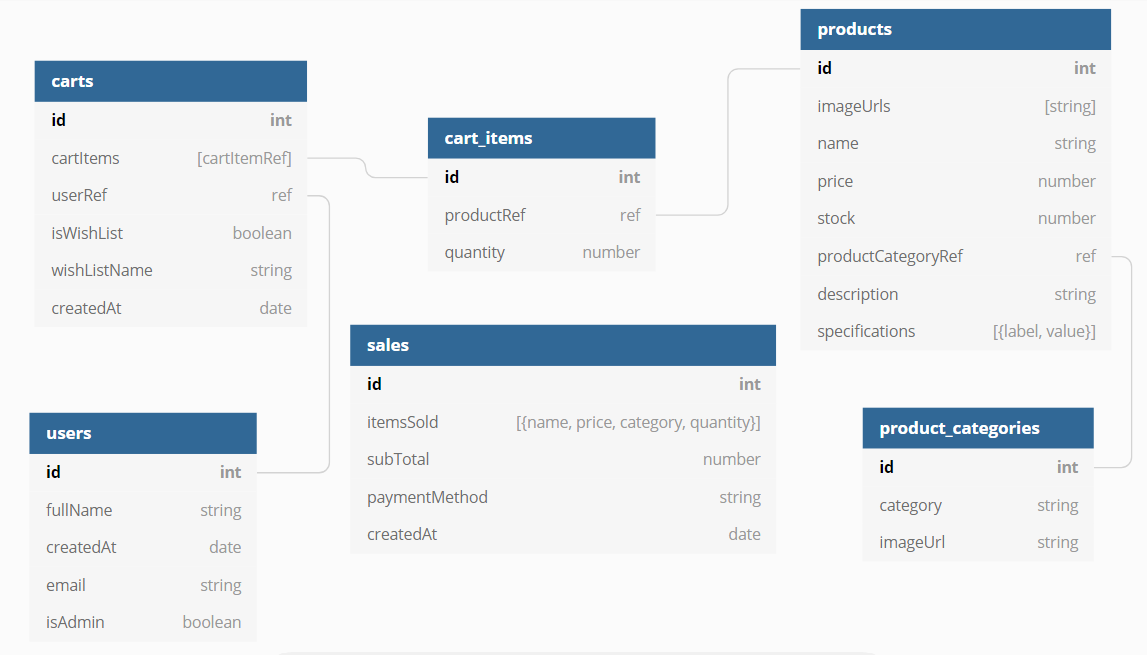
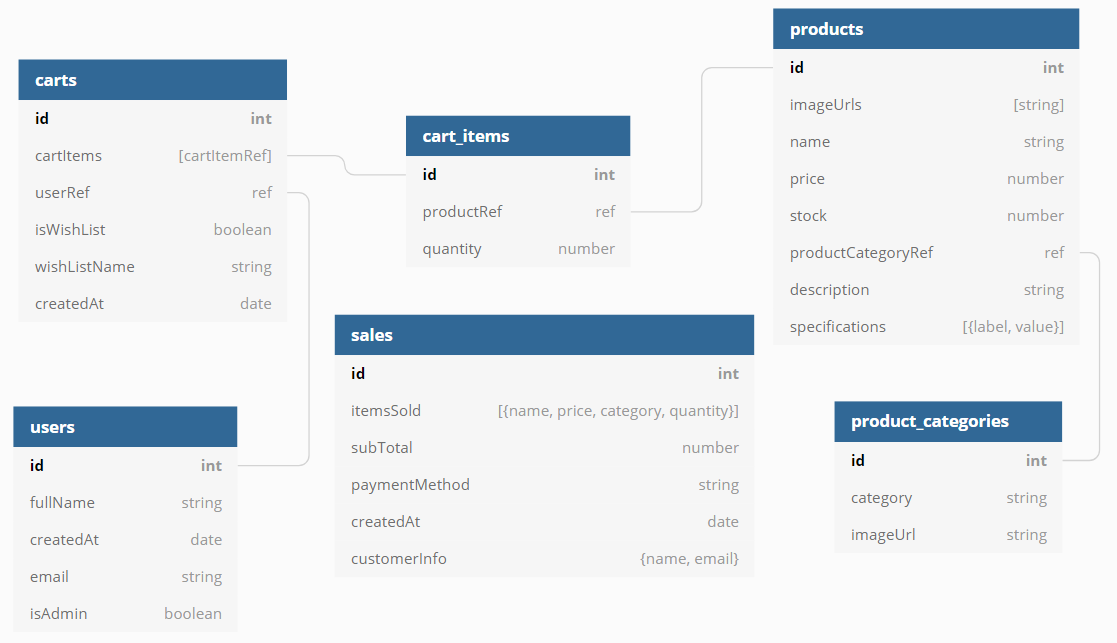
Adds customer name and customer email when creating new sale document in db.

diff --git a/client/src/redux/checkout/checkout.sagas.js b/client/src/redux/checkout/checkout.sagas.js
@@ -57,6 +57,7 @@ function* checkoutCart({
 }) {
   try {
     const shoppingCart = yield select(selectShoppingCart);
+    const { customerInfo } = checkoutInfo;
     yield checkCartItemsInStockOrOutdated(shoppingCart);
     const paymentMethod = yield call(
       processPayment,
@@ -70,8 +71,9 @@ function* checkoutCart({
       checkoutSuccess(
         onSuccessfulCheckout,
         "Payment Successful",
-        `${checkoutInfo.customerInfo.name.toUpperCase()} your payment was successful. Have a good day`,
-        paymentMethod
+        `${customerInfo.name.toUpperCase()} your payment was successful. Have a good day`,
+        paymentMethod,
+        customerInfo
       )
     );
   } catch (err) {
@@ -84,7 +86,8 @@ function* handleCheckoutSuccess({
     onSuccessfulCheckout,
     notificationTitle,
     notificationMsg,
-    paymentMethod
+    paymentMethod,
+    customerInfo
   }
 }) {
   try {
@@ -99,6 +102,7 @@ function* handleCheckoutSuccess({
       shoppingCart,
       paymentMethod,
       shoppingCartSubtotal,
+      customerInfo,
       !!currentUser,
       cartId
     );

diff --git a/client/src/firebase-utils/firebase.checkout_utils.js b/client/src/firebase-utils/firebase.checkout_utils.js
@@ -10,6 +10,7 @@ export const createNewSale = async (
   shoppingCart,
   paymentMethod,
   subTotal,
+  customerInfo,
   isUserLoggedIn,
   cartId
 ) => {
@@ -18,11 +19,13 @@ export const createNewSale = async (
     await clearUserCart(cartId);
   }
   const itemsSold = createNewCartWithImportantItemInfo(shoppingCart);
+  const { name, email } = customerInfo;
   const newSaleRef = await saleCollectionRef.add({
     itemsSold,
     subTotal,
     paymentMethod,
-    createdAt: new Date()
+    createdAt: new Date(),
+    customerInfo: { name, email }
   });
   return newSaleRef;
 };

diff --git a/client/src/redux/checkout/checkout.actions.js b/client/src/redux/checkout/checkout.actions.js
@@ -21,14 +21,16 @@ export const checkoutSuccess = (
   onSuccessfulCheckout,
   notificationTitle,
   notificationMsg,
-  paymentMethod
+  paymentMethod,
+  customerInfo
 ) => ({
   type: CHECKOUT_ACTION_TYPES.CHECKOUT_SUCCESS,
   payload: {
     onSuccessfulCheckout,
     notificationTitle,
     notificationMsg,
-    paymentMethod
+    paymentMethod,
+    customerInfo
   }
 });
 
